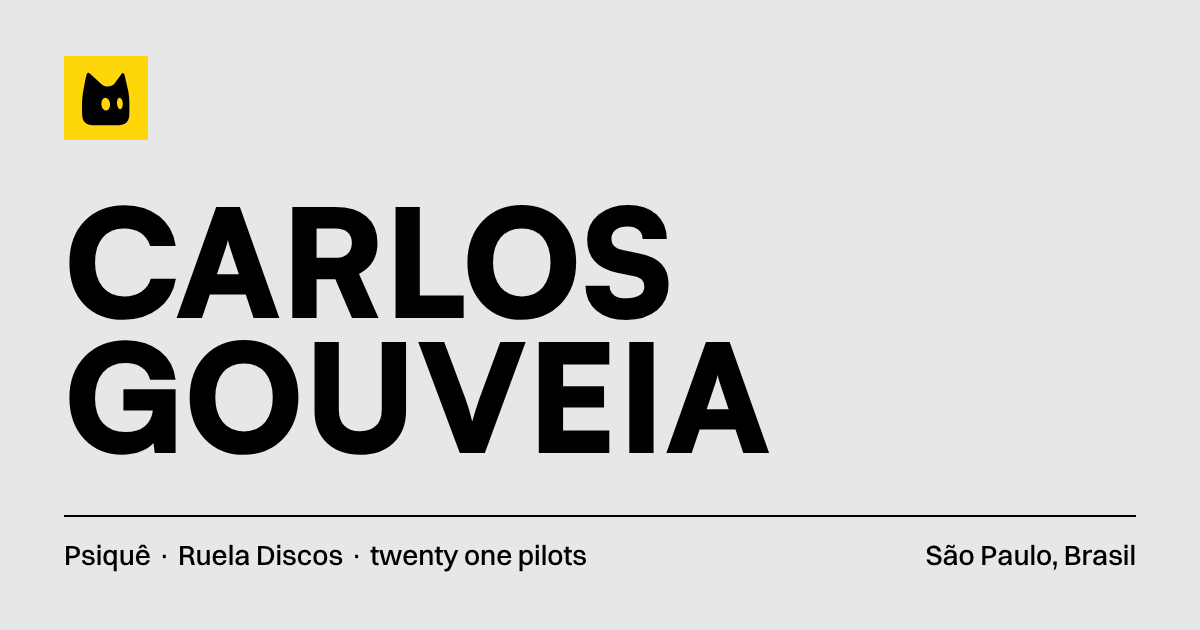
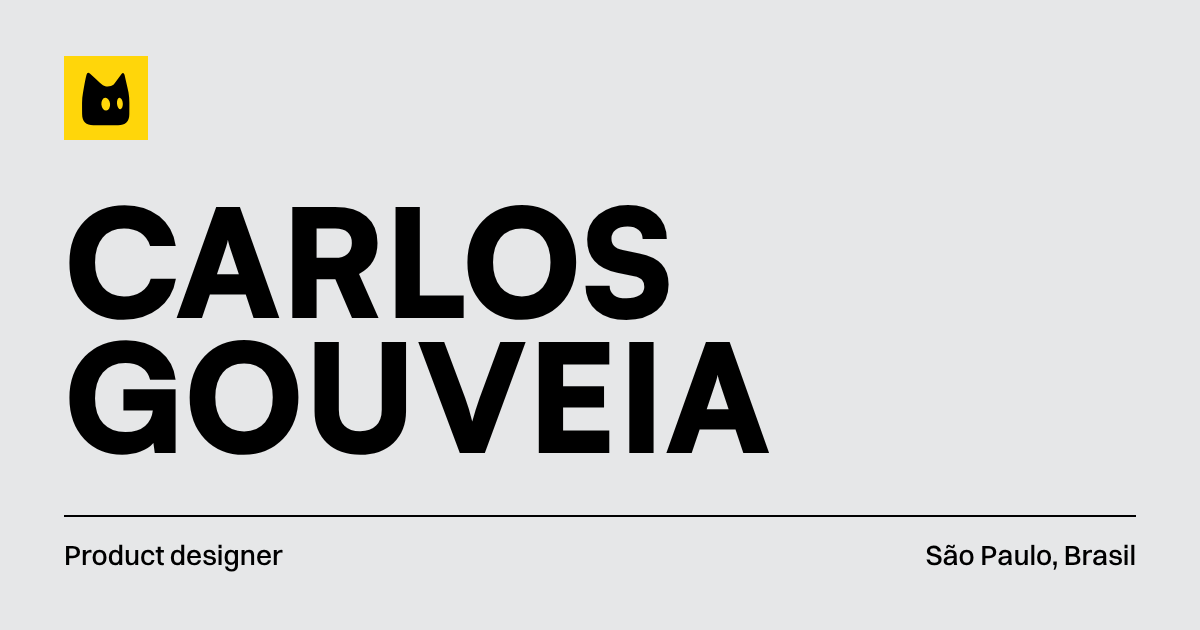
App Psiquê entra como primeiro projeto; twenty one pilots enxuto; Product designer junto do nome
- Novo projeto: conceito de app de agendamento da Psiquê, com fluxo, cinco telas e a
  decisão de mostrar o próximo horário livre na lista
- twenty one pilots com 17 imagens em vez de 36 (manual, papelaria, marketing e brindes
  num bloco só)
- Product designer abaixo do nome na abertura e no cartão de compartilhamento

Changed region(s): [[0.0617, 0.8444, 0.4933, 0.9048]]

diff --git a/src/style.css b/src/style.css
@@ -48,6 +48,7 @@ a { color: inherit; text-underline-offset: 4px; text-decoration-thickness: 1px; 
 
 .apresentacao { display: flex; flex-direction: column; gap: 28px; }
 .apresentacao h1 { margin: 0; font-size: clamp(44px, 4.6vw, 76px); }
+.cargo { margin: 12px 0 0; font-size: clamp(20px, 1.6vw, 24px); font-weight: 500; line-height: 1.2; }
 
 .projetos { list-style: none; margin: 0; padding: 0; border-top: 1px solid var(--tinta); }
 .projetos li { border-bottom: 1px solid var(--fio); }
@@ -100,6 +101,7 @@ body.travado { overflow: hidden; }
 .fileira { display: flex; gap: var(--vao); align-items: flex-start; }
 .fileira > img { flex: var(--p, 1) 1 0; width: 0; min-width: 0; }
 .sozinha { width: min(100%, 960px); margin: 0 auto; }
+.telas .fileira > img { outline: 1px solid var(--fio); outline-offset: -1px; }
 .alta { height: calc(100svh - 230px); min-height: 360px; width: 100%; object-fit: cover; }
 
 /* ---------- 6. Página de erro ---------- */
@@ -119,6 +121,8 @@ body.travado { overflow: hidden; }
 @media (max-width: 600px) {
   .fileira { flex-direction: column; }
   .fileira > img { flex: none; width: 100%; max-height: 80svh; object-fit: contain; }
+  .telas .fileira { flex-direction: row; flex-wrap: wrap; }
+  .telas .fileira > img { width: calc(50% - 4px); }
 }
 @media (prefers-reduced-motion: reduce) {
   .slide, .js .projeto, .projetos a { transition: none; }

diff --git a/src/site.js b/src/site.js
@@ -1,9 +1,9 @@
 // Abertura: a imagem troca sozinha entre os três trabalhos e abre o que está na tela.
-// Cada projeto tem endereço próprio (#psique, #ruela, #twenty-one-pilots): o botão
+// Cada projeto tem endereço próprio (#psique-app, #psique, #ruela, #twenty-one-pilots): o botão
 // voltar do navegador fecha, e o link pode ser mandado direto para alguém.
 // A classe "js" no <html> é posta no <head> (base.njk), antes de a página aparecer.
 (function () {
-  var ids = ["psique", "ruela", "twenty-one-pilots"];
+  var ids = ["psique-app", "psique", "ruela", "twenty-one-pilots"];
   var slides = document.querySelectorAll(".slide");
   var nomes = document.querySelectorAll(".projetos a");
   var moldura = document.querySelector(".moldura");

diff --git a/ferramentas/og.py b/ferramentas/og.py
@@ -36,8 +36,8 @@ GATO = ('<svg class="marca-gato" viewBox="36 18 136 154" aria-hidden="true"><mas
         'fill="currentColor"/></g></svg>')
 
 TEXTOS = {
-    "pt-BR": {"linha": "Psiquê · Ruela Discos · twenty one pilots", "cidade": "São Paulo, Brasil"},
-    "en": {"linha": "Psiquê · Ruela Discos · twenty one pilots", "cidade": "São Paulo, Brazil"},
+    "pt-BR": {"linha": "Product designer", "cidade": "São Paulo, Brasil"},
+    "en": {"linha": "Product designer", "cidade": "São Paulo, Brazil"},
 }
 
 def fonte(arquivo):
